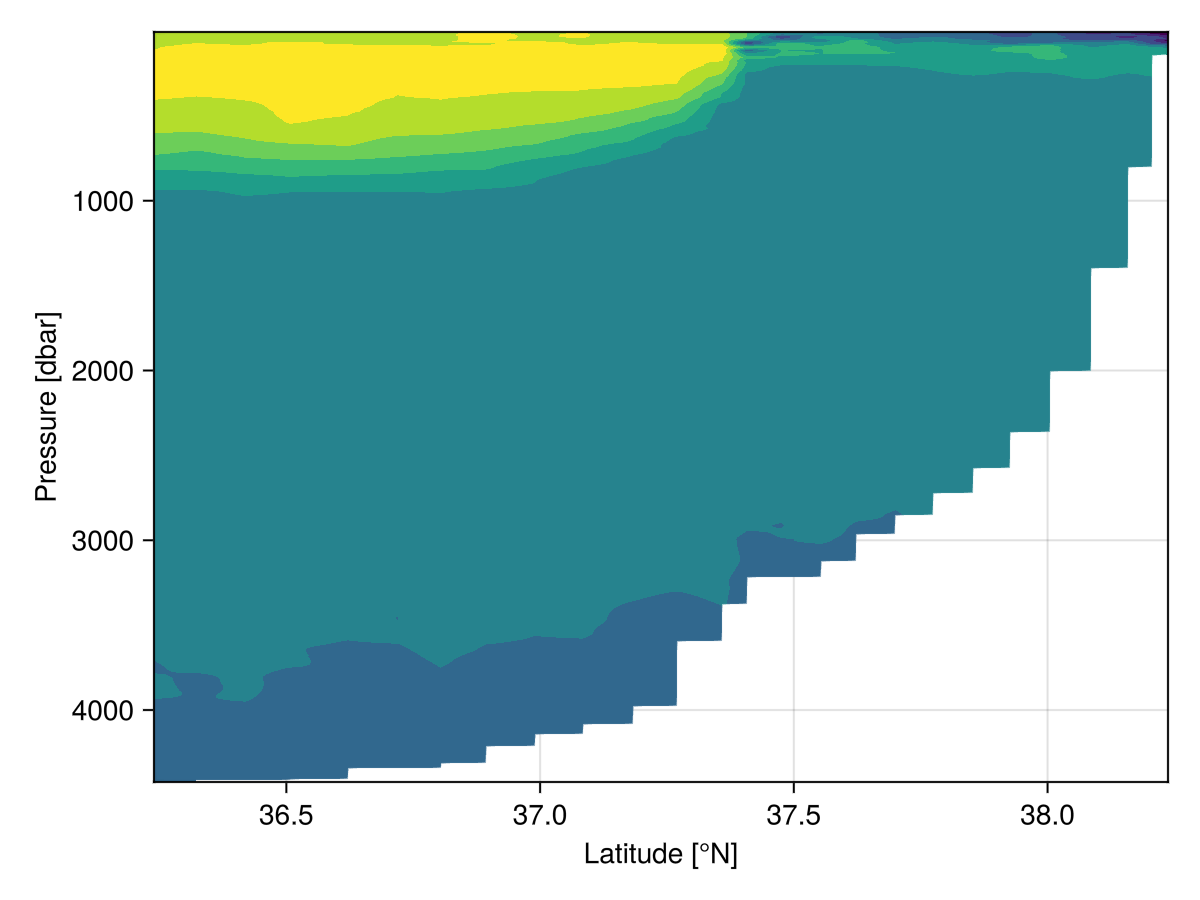
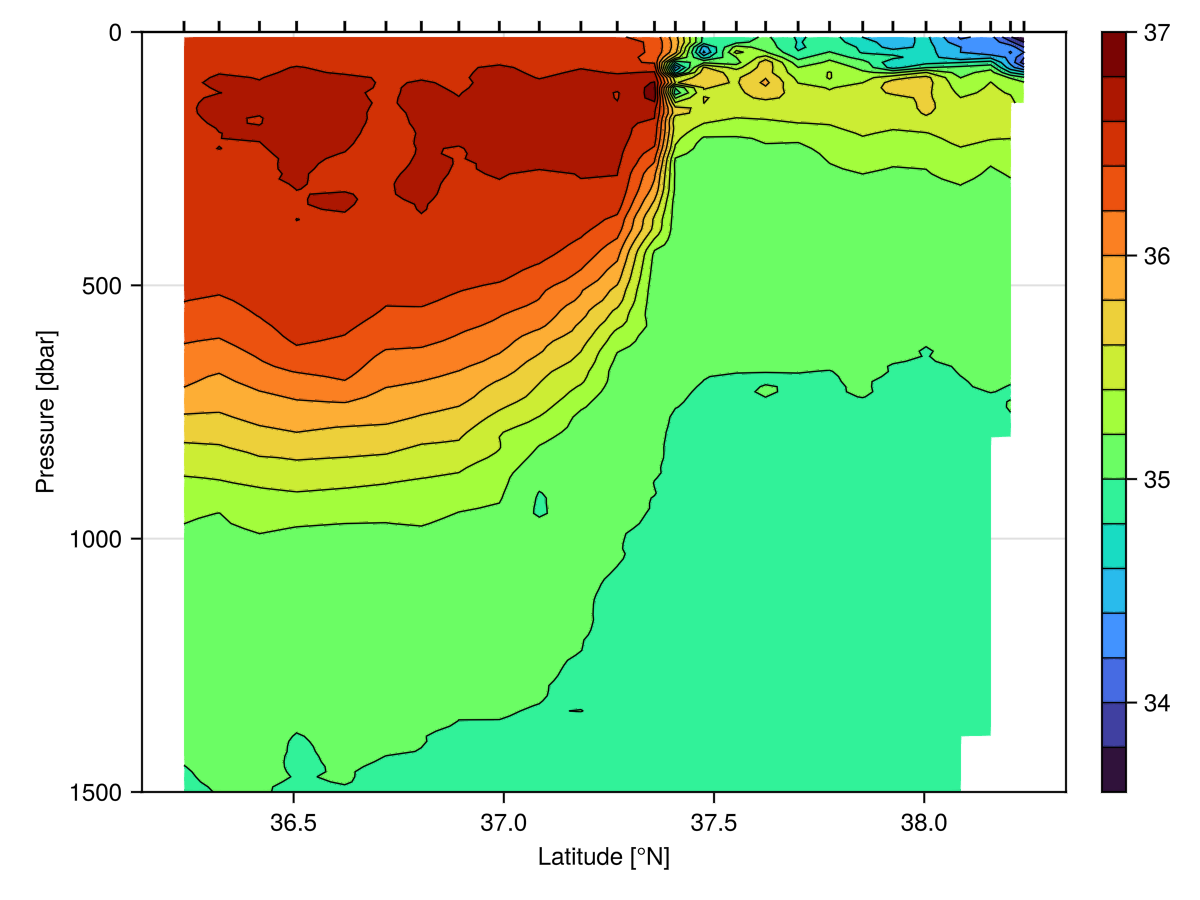
plot_section() gets a new (much better) default type

diff --git a/docs/src/examples.md b/docs/src/examples.md
@@ -421,10 +421,10 @@ end
 The following code downloads data from a section survey in the North Atlantic
 ocean. (See [https://cchdo.ucsd.edu](https://cchdo.ucsd.edu) for paths to other
 sections, noting that only the data type named 'exchange' is handled by the
-OceanAnalysis package.) Then it reads the data, and isolates a subset that runs
+`OceanAnalysis` package.) Then it reads the data, and isolates a subset that runs
 roughly orthogonal to the mean path of the Gulf Stream. Finally, it plots a
-chart of sampling locations, along with cross-section diagrams of salinity and
-temperature.
+salinity section showing the upper 1500 metres of the water column. Ticks
+at the top indicate station locations.
 
 ```julia
 using OceanAnalysis
@@ -434,8 +434,9 @@ dir = get_section(url);
 s = read_section(dir);
 s.data = s.data[s["longitude"].<(-68.0)];
 # We must grid to get the cross-section diagrams
-sg = grid_section(s);
-fig = plot_section(sg, which="salinity", type=:contourf)
+sg = grid_section(s, 10.0); # grid to 10-m resolution
+fig = plot_section(sg, which="salinity", fontsize=12,
+    levels=20, limits=(nothing, nothing, 0, 1500))
 save("section.png", fig, px_per_unit=2)
 ```
 
